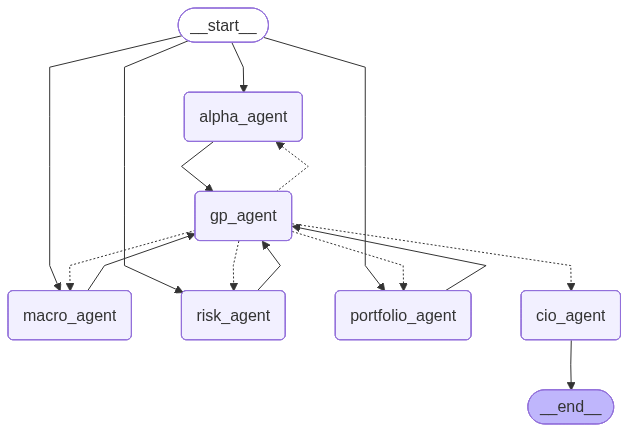
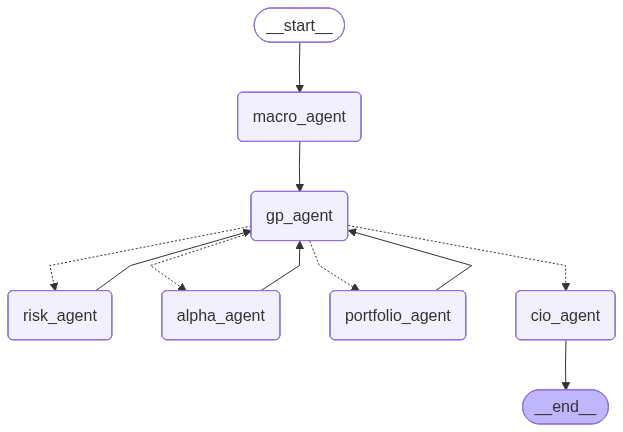
refactoring

diff --git a/main.py b/main.py
@@ -4,6 +4,8 @@ from agents.constants import StateKey
 from agents.state import get_initial_state
 from agents.workflow import build_skeleton
 from data.mock_data import get_portfolio
+
+# from utils.helpers import export_graph_visualization
 from utils.logger import get_logger
 
 logger = get_logger("main")
@@ -33,16 +35,11 @@ def main():
     final_state = initial_state
     for step in app.stream(initial_state, stream_mode="updates"):
         for node_name, updated_values in step.items():
-            if updated_values is None:
-                continue
-
             logger.info(f"--- [ {node_name} ] 작업 완료 ---")
             final_state.update(updated_values)  # 상태 누적 업데이트
 
-            # 실시간 진행 상황 요약
-            for key, val in updated_values.items():
-                if action := log_actions.get(key):
-                    action(val)
+            # 실시간 진행 상황 요약 (for문 없이 리스트 내포와 왈러스 연산자를 이용한 완전 선언적 처리)
+            [action(val) for key, val in updated_values.items() if (action := log_actions.get(key))]
 
     # 3. 결과 출력
     logger.info("✅ 모든 분석 생중계가 완료되었습니다!")

diff --git a/agents/nodes/alpha.py b/agents/nodes/alpha.py
@@ -36,7 +36,7 @@ def _discover_current_themes(llm: Any) -> List[SectorRule]:
     logger.info("🔍 실시간 뉴스에서 가장 핫한 투자 테마 TOP 5 발굴 중...")
 
     # 1. 최신 주도주/테마 뉴스 검색
-    query = "Hottest 5 investment themes and leading sectors in US and Korea stock markets today"
+    query = "Hottest 10 investment themes and leading sectors in US and Korea stock markets today"
     news_context = fetch_news(query)
 
     # 2. LLM을 통한 5개 테마 구조화

diff --git a/graph_flow.md b/graph_flow.md
@@ -10,14 +10,10 @@ graph TD;
 	gp_agent(gp_agent)
 	cio_agent(cio_agent)
 	__end__([__end__]):::last
-	__start__ --> alpha_agent;
 	__start__ --> macro_agent;
-	__start__ --> portfolio_agent;
-	__start__ --> risk_agent;
 	alpha_agent --> gp_agent;
 	gp_agent -.-> alpha_agent;
 	gp_agent -.-> cio_agent;
-	gp_agent -.-> macro_agent;
 	gp_agent -.-> portfolio_agent;
 	gp_agent -.-> risk_agent;
 	macro_agent --> gp_agent;
